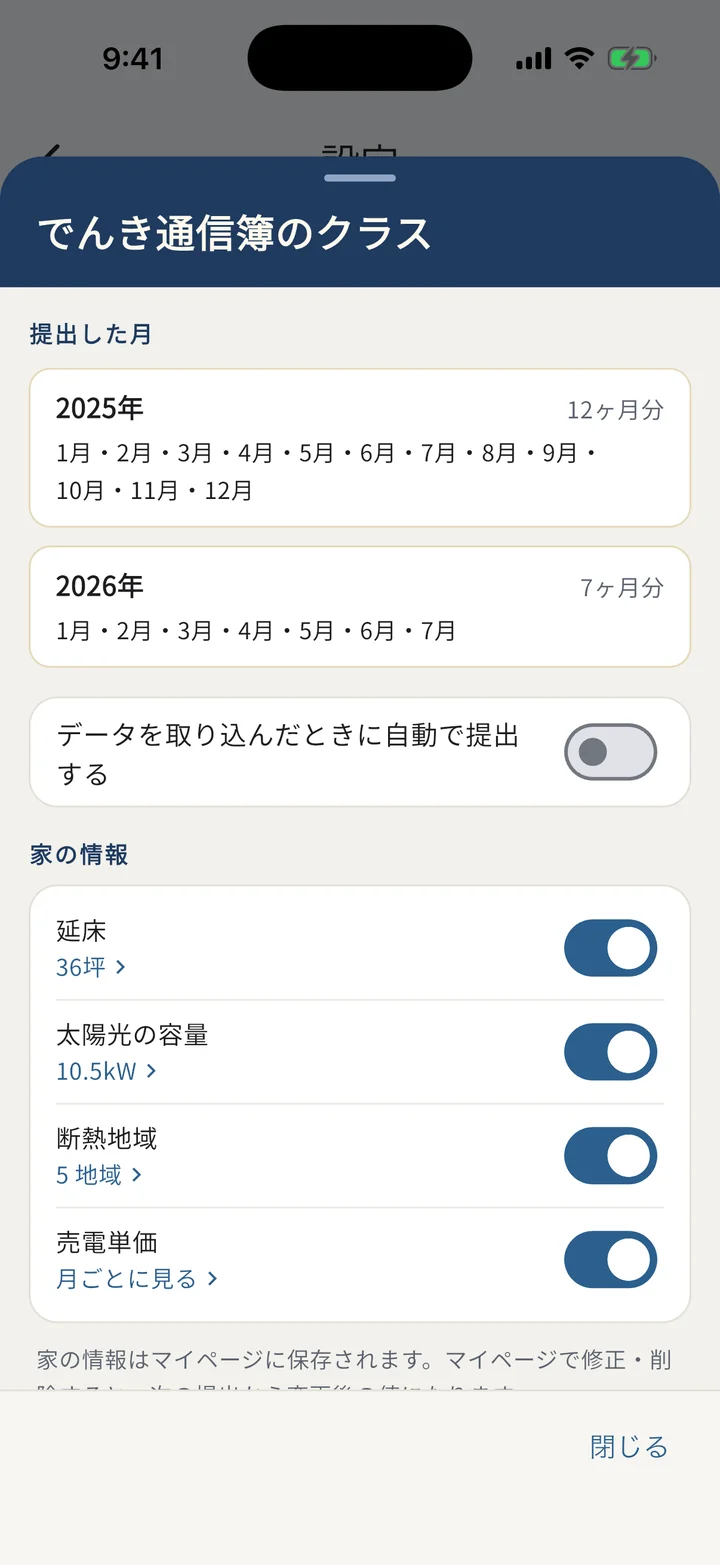
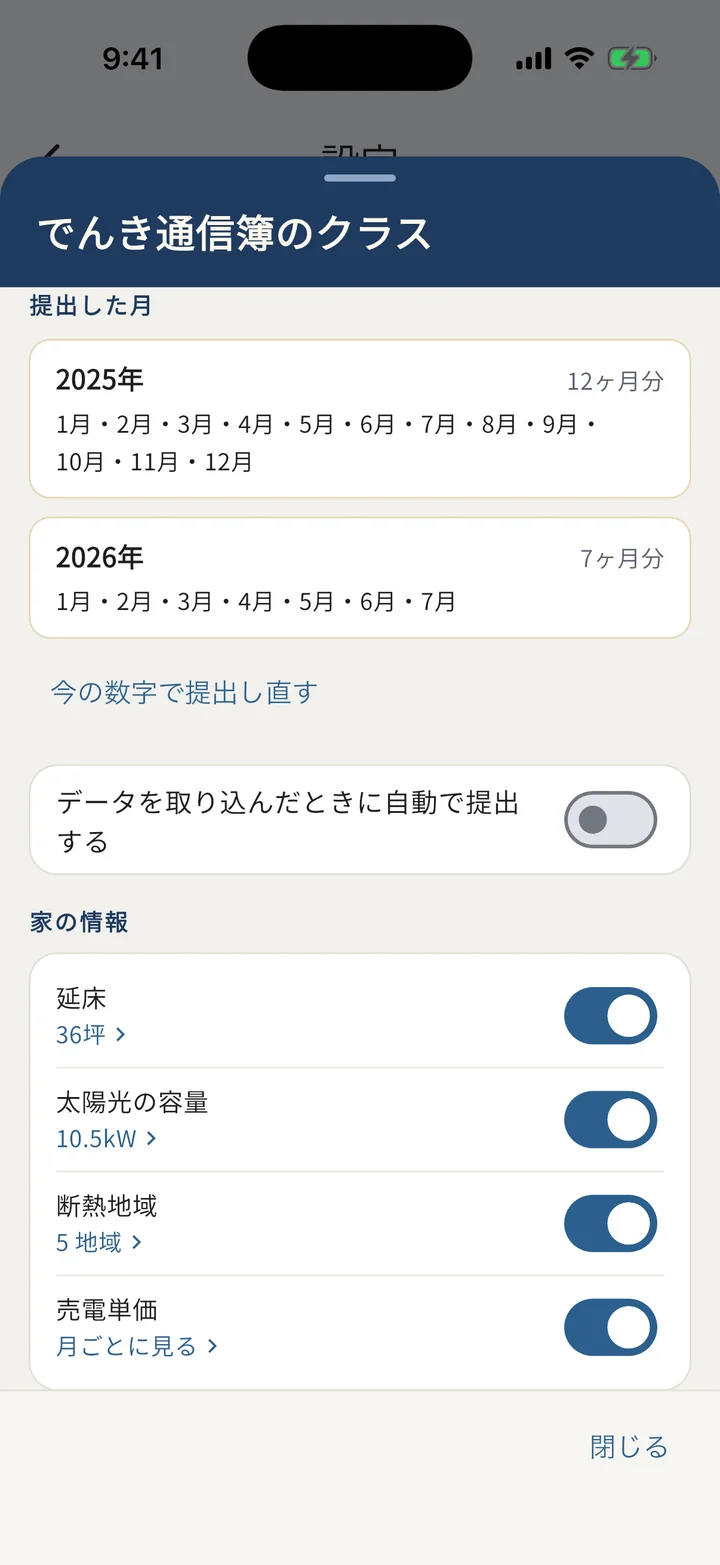
docs: マニュアルにクラスの「今の数字で提出し直す」を追加 (#30)

diff --git a/docs/manual.html b/docs/manual.html
@@ -3531,7 +3531,7 @@
   <li>「中央値」「下位25%の境目」「上位25%の境目」（10 軒以上のとき）</li>
   <li>「分布」の図（20 軒以上のとき）：棒と「あなた」の印（▼）。棒の高さは家の多さです。10〜19 軒のときは、図の場所に「20軒以上になると、分布の図が表示されます」と出ます</li>
   <li>自分の数字と中央値の推移のグラフ（歴代ベスト以外）</li>
-  <li>注記：金額の科目は「金額は、料金プランの違いも含めて比較しています」、自給率は「自給率は発電量 ÷ 消費量です。100%を超えることがあります」。どの科目も「提出したときの数字で比較しています」（あとからマイページや料金プランを直しても、提出済みの数字は変わりません）</li>
+  <li>注記：金額の科目は「金額は、料金プランの違いも含めて比較しています」、自給率は「自給率は発電量 ÷ 消費量です。100%を超えることがあります」。どの科目も「提出したときの数字で比較しています」（あとからマイページや料金プランを直しても、提出済みの数字は変わりません。今の数字に直すときは、右上メニューの「<a href="#electricity-class-settings">提出の設定</a>」にある「今の数字で提出し直す」から提出し直してください）</li>
 </ul>
 
 <div class="shot-grid">
@@ -3542,8 +3542,9 @@
 </div>
 
 <h4 id="electricity-class-settings">提出の設定とやめ方</h4>
-<p>クラスの画面のいちばん下に「提出の設定」があります。同じ内容は、クラスを表示しているときの<strong>右上メニュー →「提出の設定」</strong>と、<strong>設定 &gt; データ管理 &gt;「でんき通信簿のクラス」</strong>（提出したことがあるときに表示）からも開けます。メニューと設定から開いたときは、提出した月（年ごと）も表示されます。</p>
+<p>クラスの画面のいちばん下に「提出の設定」があります。同じ内容は、クラスを表示しているときの<strong>右上メニュー →「提出の設定」</strong>と、<strong>設定 &gt; データ管理 &gt;「でんき通信簿のクラス」</strong>（提出したことがあるときに表示）からも開けます。メニューと設定から開いたときは、提出した月（年ごと）と「今の数字で提出し直す」も表示されます。</p>
 <ul>
+  <li><strong>今の数字で提出し直す</strong>（メニューと設定から開いたとき）：料金プランや売電プランを直した、データを取り込み直した、などで提出済みの月の数字が変わったときに使います。押すと、データが月末までそろったいちばん新しい月の「<a href="#electricity-class-submit">提出する内容</a>」の画面が開きます。「これまでの月もまとめて提出する」には提出済みの月も含まれ、歴代ベストも今の数字で作り直して提出します。内容を確かめて「提出する」を押すと今の数字で上書きされ、翌日からクラスの通信簿に反映されます（同じ月が二重に数えられることはありません）</li>
   <li><strong>データを取り込んだときに自動で提出する</strong>：ON にすると、CSV を取り込んで新しくそろった月を自動で提出します（歴代ベストもいっしょに提出します）。結果は取り込み完了ダイアログに「◯年◯月分を提出しました」のように出ます。提出できなかったときは、代わりに「◯年◯月分をクラスに提出する」が出ます</li>
   <li><strong>今後の提出をやめる</strong>：確認のダイアログで「やめる」を押すと、クラスの通信簿は見られなくなり、自動の提出も止まります。提出済みの数字は、最後の提出から約 1 年で自動的に消えます。もう一度提出すると再開できます</li>
   <li><strong>クラスのサポート用 ID</strong>：提出済みの数字の削除を依頼するときに使う ID です（右のアイコンでコピー）。今後の提出をやめたあとも表示されます</li>
@@ -3555,7 +3556,7 @@
     <figcaption>クラスの画面の末尾：提出の設定</figcaption>
   </figure>
   <figure class="shot-phone">
-    <img src="images/class_settings_sheet.webp" width="720" height="1565" alt="設定から開いた「でんき通信簿のクラス」（提出した月・自動で提出するスイッチ・家の情報のスイッチ）" loading="lazy" decoding="async">
+    <img src="images/class_settings_sheet.webp" width="720" height="1565" alt="設定から開いた「でんき通信簿のクラス」（提出した月・今の数字で提出し直す・自動で提出するスイッチ・家の情報のスイッチ）" loading="lazy" decoding="async">
     <figcaption>設定 &gt; でんき通信簿のクラス</figcaption>
   </figure>
 </div>
@@ -3564,7 +3565,7 @@
 <ul>
   <li>延床・太陽光の容量・断熱地域は、<a href="#mypage-edit">マイページ</a>の値をそのまま使います。提出の画面で入力した値もマイページに保存されます</li>
   <li>マイページで直しても、その場では提出されず、次の提出から変更後の値になります。提出している間は、マイページの編集画面の提出している欄の下に「でんき通信簿のクラスにも提出しています。変更は次の提出から反映されます」と表示されます</li>
-  <li>メニューと設定から開いたときは、延床・太陽光の容量・断熱地域・売電単価のそれぞれを、次から提出するかどうかをスイッチで切り替えられます。切り替えは次の提出から反映され、提出済みの月は変わりません</li>
+  <li>メニューと設定から開いたときは、延床・太陽光の容量・断熱地域・売電単価のそれぞれを、次から提出するかどうかをスイッチで切り替えられます。切り替えは次の提出から反映されます（提出済みの月は、<a href="#electricity-class-settings">今の数字で提出し直す</a>まで変わりません）</li>
   <li>提出済みの月の値を直すときは、その行を押して入力し直してください（提出済みの月に付けて提出し直し、歴代ベストも端末にあるすべての月から作り直して提出します）</li>
 </ul>
 
@@ -3601,6 +3602,7 @@
   <div class="action-row"><strong>クラス：比較対象／ものさし／期間</strong><span>クラスの通信簿の表示を切替</span></div>
   <div class="action-row"><strong>クラス：通信簿の行をタップ</strong><span>その科目の詳しい画面（中央値・分布・推移）を開く</span></div>
   <div class="action-row"><strong>クラス：↻</strong><span>最新の集計を読み込む</span></div>
+  <div class="action-row"><strong>クラス：今の数字で提出し直す</strong><span>「提出の設定」（右上メニュー・設定から開いたとき）から、提出済みの月も含めて「提出する内容」の画面を開く</span></div>
   <div class="action-row"><strong>クラス：今後の提出をやめる</strong><span>確認のあと、今後の提出と自動の提出を止める</span></div>
 </div>
 
@@ -4525,7 +4527,7 @@
 </table>
 
 <h3 id="settings-class">でんき通信簿のクラス</h3>
-<p>でんき通信簿の「<a href="#electricity-class">クラス</a>」に提出したことがあるときだけ、データ管理セクションの「家族と共有」の上に表示されます。行の下には「◯ヶ月分を提出しました」（提出をやめたあとは「提出をやめています」）と出ます。タップすると、提出した月・自動の提出・家の情報の切り替え・今後の提出をやめる・クラスのサポート用 ID のシートが開きます。使い方は <a href="#electricity-class-settings">でんき通信簿 &gt; 提出の設定</a> をご覧ください。デモモード中は使えません。</p>
+<p>でんき通信簿の「<a href="#electricity-class">クラス</a>」に提出したことがあるときだけ、データ管理セクションの「家族と共有」の上に表示されます。行の下には「◯ヶ月分を提出しました」（提出をやめたあとは「提出をやめています」）と出ます。タップすると、提出した月・今の数字で提出し直す・自動の提出・家の情報の切り替え・今後の提出をやめる・クラスのサポート用 ID のシートが開きます。使い方は <a href="#electricity-class-settings">でんき通信簿 &gt; 提出の設定</a> をご覧ください。デモモード中は使えません。</p>
 
 <h3 id="settings-family">家族と共有</h3>
 <p>お手入れ当番表を家族と同じ画面で使うための入口です。データ管理セクションの一番下にあります。共有できるのは<strong>お手入れ当番表のデータ（項目・部屋・消耗品・実施の記録・担当）だけ</strong>で、図面や見積りなどの書類は共有されません。共有の状態（参加の承認待ち・承認済み・停止中など）もこのタイルに表示され、タップすると共有の管理画面が開きます。使い方は <a href="#maintenance-family">お手入れ当番表 &gt; 家族と共有</a> をご覧ください。</p>
@@ -4728,6 +4730,7 @@
   <li><strong>坪・kW あたりの数字が「—」になる</strong>：延床・太陽光の容量が入っていないか、提出しない設定になっています。行を押すと、その場で入力して提出できます → <a href="#electricity-class-screen">クラスの通信簿の見方</a></li>
   <li><strong>同じ売電単価の家と比較できない</strong>：<a href="#electricity-plan">売電プラン</a>を設定してから提出してください。月の途中で売電プランが変わった月は、同じ売電単価の家とは比較できません</li>
   <li><strong>「◯年◯月分をクラスに提出する」が出ない</strong>：その月のデータが月末までそろっていない、デモモード・開発者モードがオンになっている、今後の提出をやめている、のどれかが考えられます。その月を提出済みのときは「◯年◯月分を提出しました」が出ます。自動で提出する設定のときは、取り込み完了ダイアログにはボタンではなく提出の結果が出ます。月次のカードは料金プランが未設定のあいだと、× で閉じたあとは出ません（取り込み完了ダイアログとクラスの画面からは提出できます）</li>
+  <li><strong>料金プランなどを直したのに、クラスの数字が変わらない</strong>：クラスは提出したときの数字で比較しています。<a href="#electricity-class-settings">提出の設定</a>（右上メニュー、または 設定 &gt; データ管理 &gt; でんき通信簿のクラス）の「今の数字で提出し直す」から提出し直すと、翌日から今の数字で比較されます。このボタンは、データが月末までそろった月が端末にあるときに出ます（デモモード・開発者モードがオンのときと、今後の提出をやめているあいだは出ません）</li>
   <li><strong>「まだ提出できていません」と出る</strong>：通信できない状態でした。通信できるようになってから、でんき通信簿のクラスを開くと提出されます</li>
   <li><strong>提出した数字を消したい</strong>：何もしなくても、最後の提出から約 1 年で自動的に消えます。すぐに消したいときは、クラスの画面の下（または 設定 &gt; データ管理 &gt; でんき通信簿のクラス）に表示される「クラスのサポート用 ID」を添えて <a href="#contact">お問い合わせ</a> ください → <a href="#electricity-class-data">送る数字と保存期間</a></li>
 </ul>
